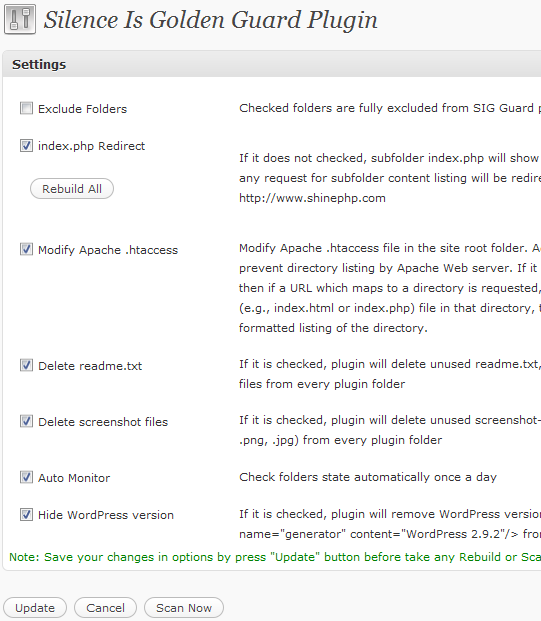
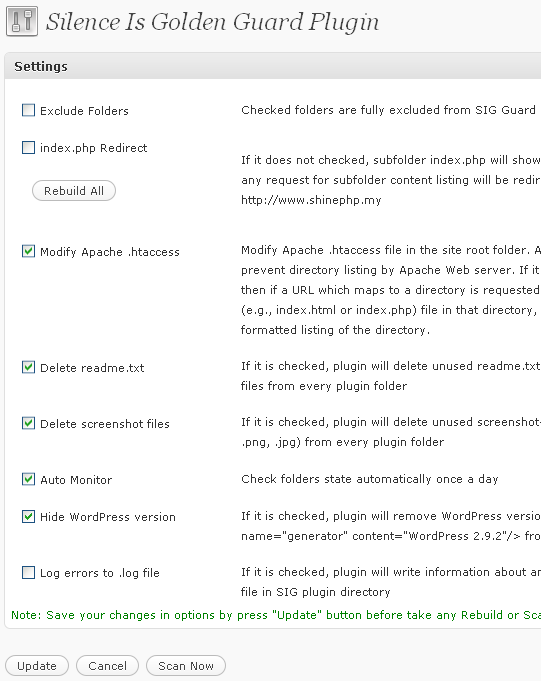
v. 1.5. commit
git-svn-id: https://plugins.svn.wordpress.org/silence-is-golden-guard/trunk@238850 b8457f37-d9ea-0310-8a92-e5e31aec5664

diff --git a/sig-guard.php b/sig-guard.php
@@ -3,7 +3,7 @@
 Plugin Name: Silence Is Golden Guard
 Plugin URI: http://www.shinephp.com/silence-is-golden-guard-wordpress-plugin/
 Description: It prevents your blog directories from full file listing if visitor types just directory name as the URL, e.g. http://yourdomain/wp-content/plugins/
-Version: 1.4
+Version: 1.5
 Author: Vladimir Garagulya
 Author URI: http://www.shinephp.com
 Text Domain: sig-guard
@@ -65,7 +65,7 @@ function sig_guard_optionsPage() {
   $sig_guard_delete_screenshot = get_option('sig_guard_delete_screenshot');
   $sig_guard_redirect_tohomepage = get_option('sig_guard_redirect_tohomepage');
   $sig_guard_hide_wordpress_version = get_option('sig_guard_hide_wordpress_version');
-  
+  $sig_guard_log_errors = get_option('sig_guard_log_errors');
 ?>
 
 <div class="wrap">
@@ -92,6 +92,7 @@ function sig_guard_install() {
   add_option('sig_guard_delete_screenshot', 0);
   add_option('sig_guard_redirect_tohomepage', 0);
   add_option('sig_guard_hide_wordpress_version', 0);
+  add_option('sig_guard_log_errors', 0);
   $logFileName = SIG_GUARD_PLUGIN_DIR.SIG_GUARD_DIR_SLASH.'sig-guard.log';
   if (SIG_WINDOWS_SERVER) {
     $logFileName = str_replace('/', SIG_GUARD_DIR_SLASH, $logFileName);
@@ -99,7 +100,7 @@ function sig_guard_install() {
   if (file_exists($logFileName)) {
     sig_fileRemove($logFileName);
   }
-  sig_guard_logEvent('SIG Guard Plugin is installed successfully.');
+  
 }
 // end of sig_guard_install()
 
@@ -116,6 +117,7 @@ function sig_guard_init() {
     register_setting('sig-quard-options', 'sig_guard_delete_screenshot');
     register_setting('sig-quard-options', 'sig_guard_redirect_tohomepage');
     register_setting('sig-quard-options', 'sig_guard_hide_wordpress_version');
+    register_setting('sig-quard-options', 'sig_guard_log_errors');
   }
 }
 // end of sig_guard_init()

diff --git a/sig-guard_lib.php b/sig-guard_lib.php
@@ -43,8 +43,15 @@ if(strpos($tmp, '/', 0)!==false) {
 define('SIG_FAILURE_MESS', ' <span style="color: red;font-weight: bold;">:(</span><br/>');
 define('SIG_SUCCESS_MESS', ' <span style="color: green;font-weight: bold;">OK</span><br/>');
 
+$sig_guard_log_errors = get_option('sig_guard_log_errors');
+
 
 function sig_guard_logEvent($message) {
+  global $sig_guard_log_errors;
+  if (!$sig_guard_log_errors) {
+    return;
+  }
+
   include(ABSPATH .'wp-includes/version.php');
 
   $fileName = SIG_GUARD_PLUGIN_DIR.'/sig-quard-'.md5(WP_PLUGIN_DIR).'.log';
@@ -307,6 +314,14 @@ function sig_indexFileCheck($indexFile, $sig_mess, $rebuildIndexFile, $screenLog
     }
     return false;
   }
+
+// WP Super Cache compatability issue fix: redirection directive in /wp-super-cache/plugins/index.php file leads to endless redirection loop, so it should be excluded
+  if (defined('WPCACHEHOME')) {
+    if (strpos($indexFile, 'wp-super-cache'.SIG_GUARD_DIR_SLASH.'plugins'.SIG_GUARD_DIR_SLASH)!==false) {
+      $sig_mess = "<?php\r\n".SIG_GUARD_PLUGIN_STAMP."\r\n?>";
+    }
+  }
+
   if (!fwrite($fh, $sig_mess)) {
     $errMess = $indexFile.' '.__('file write error');
     sig_guard_logEvent($errMess);

diff --git a/sig-quard_options.php b/sig-quard_options.php
@@ -184,6 +184,16 @@ if (isset($_GET['action']) && ($_GET['action']=='scan' || $_GET['action']=='rebu
             <?php _e('If it is checked, plugin will remove WordPress version information, e.g. &lt;meta name="generator" content="WordPress 2.9.2"/&gt; from your blog pages','sig_guard'); ?>
           </td>
         </tr>
+        <tr>
+          <td style="vertical-align:top;">
+            <input type="checkbox" value="1" <?php echo sig_guard_optionChecked($sig_guard_log_errors, 1); ?>
+                   name="sig_guard_log_errors" id="sig_guard_hide_log_errors" />
+            <label for="sig_guard_log_errors"><?php _e('Log errors to .log file','sig-guard'); ?></label>
+          </td>
+          <td>
+            <?php _e('If it is checked, plugin will write information about any errors during scan process to .log file in SIG plugin directory','sig_guard'); ?>
+          </td>
+        </tr>
       </table>
       <span style="color: green;">Note: Save your changes in options by press "Update" button before take any Rebuild or Scan actions.</span>
 			<?php sig_guard_displayBoxEnd();?>
